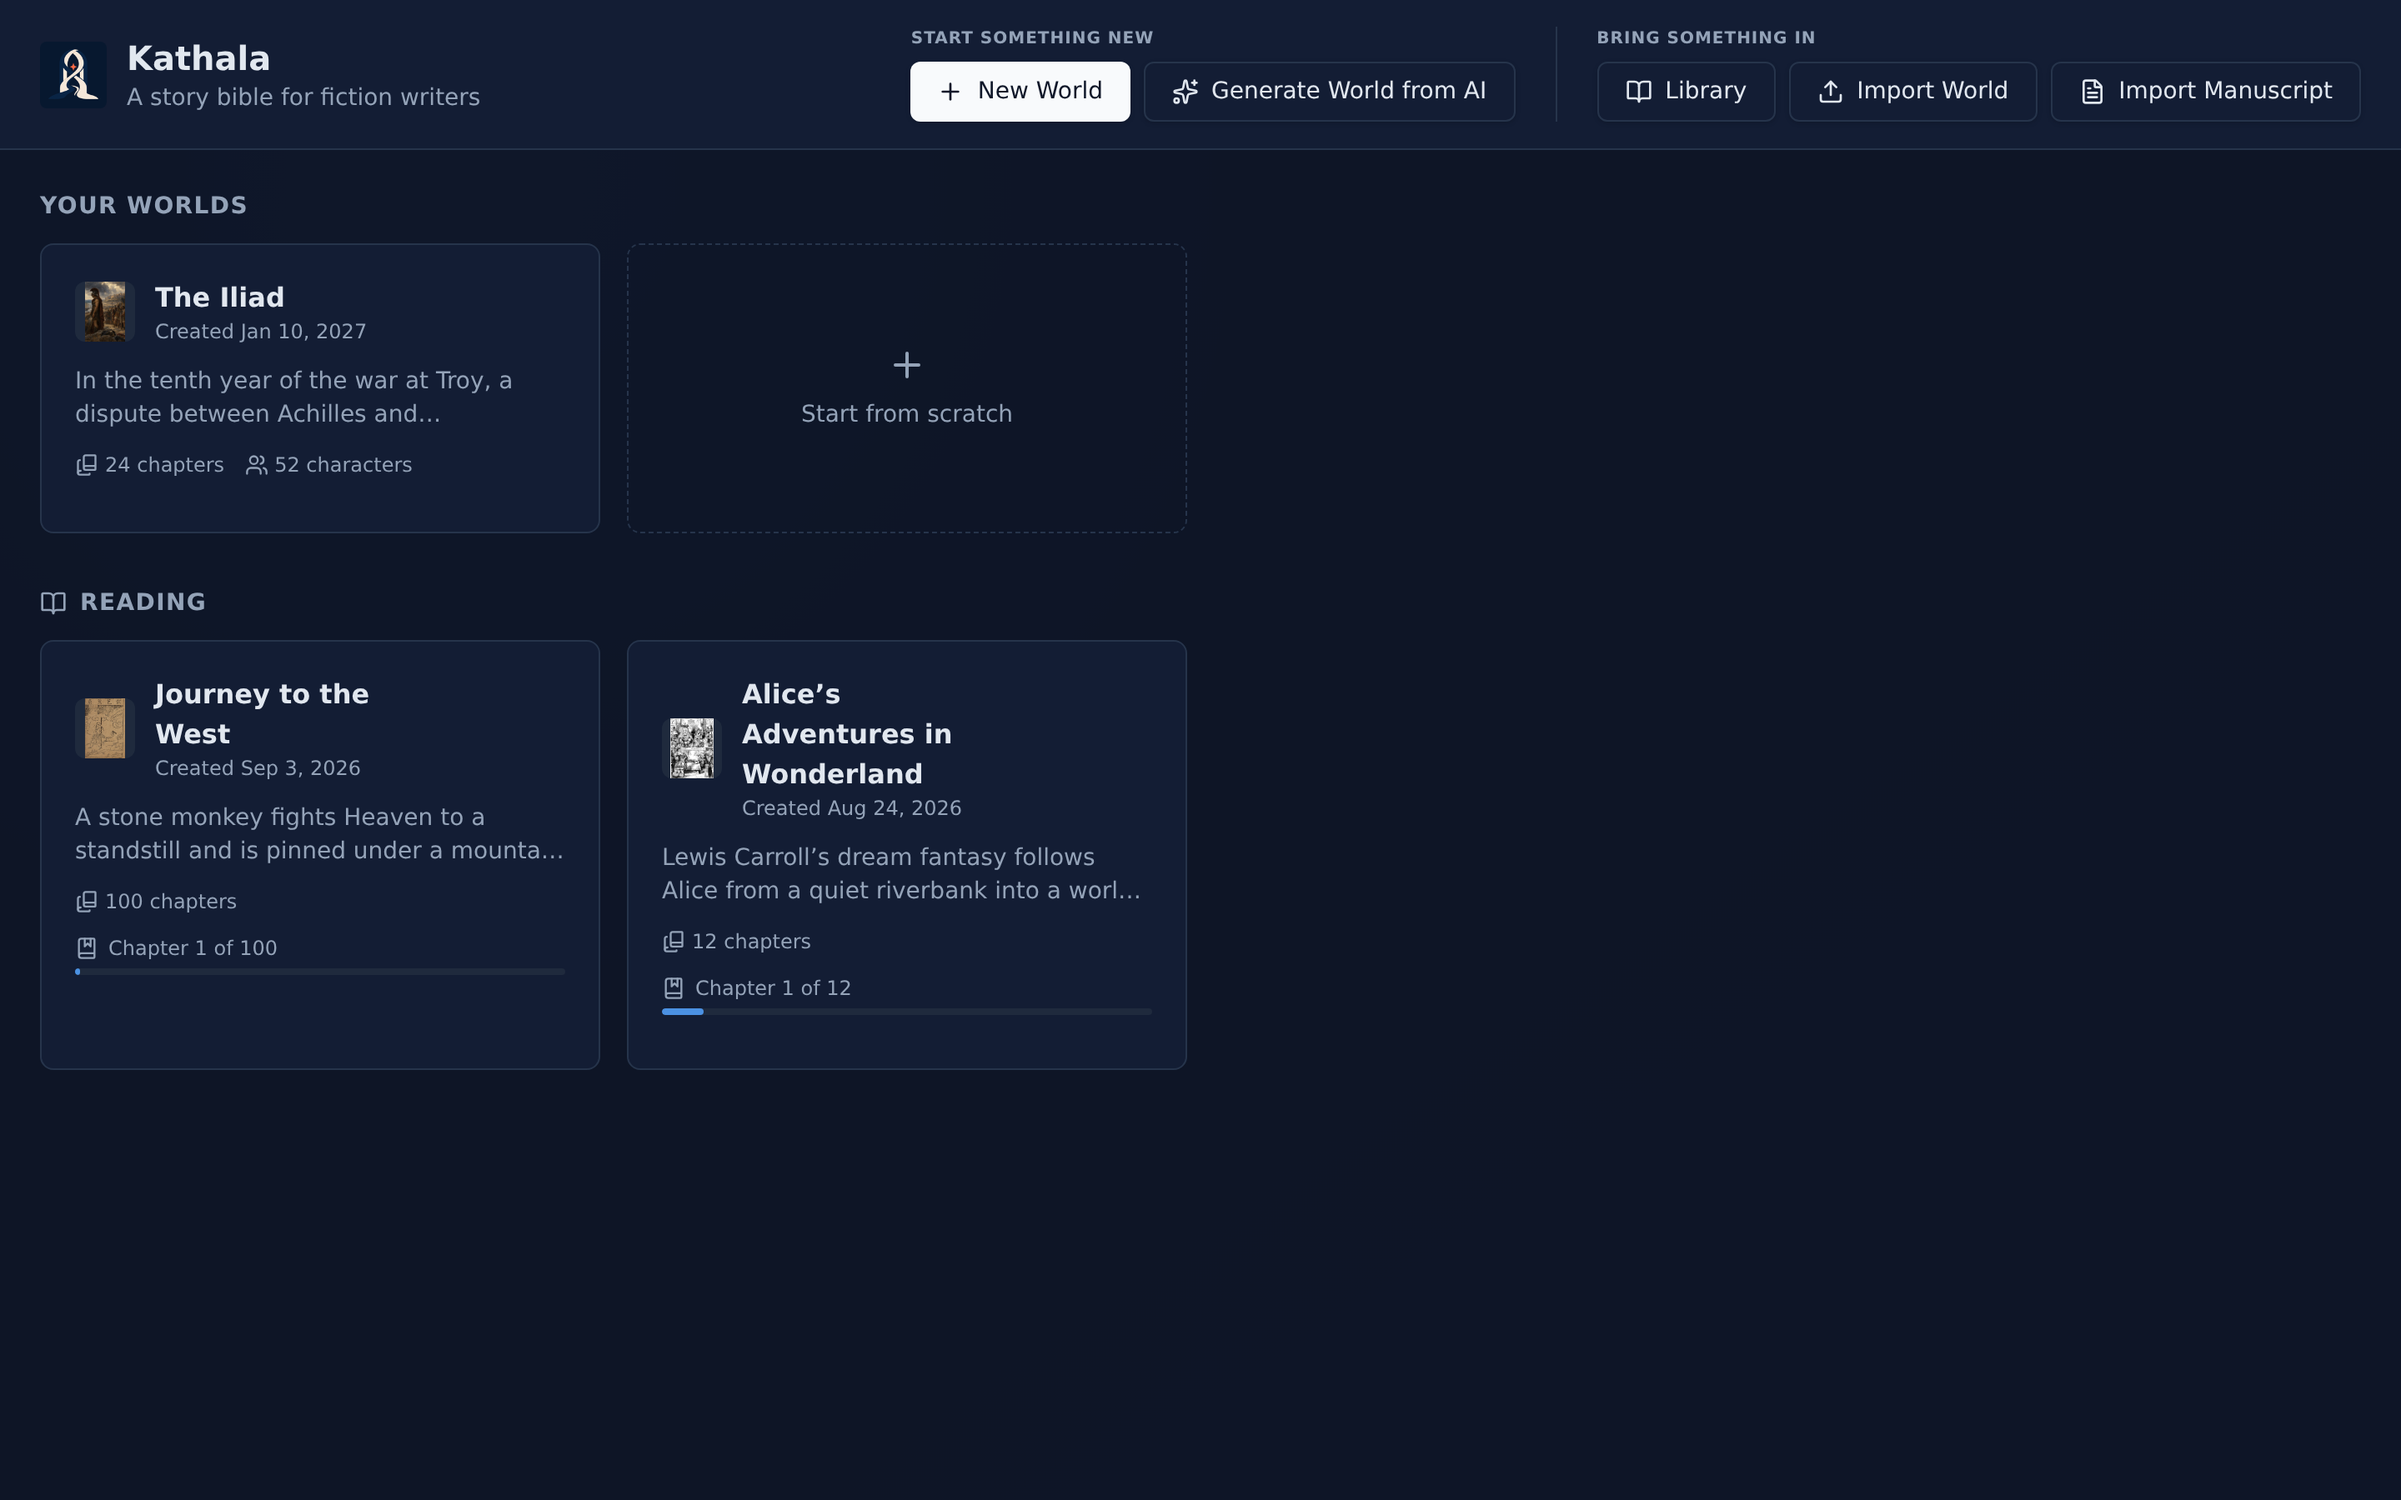
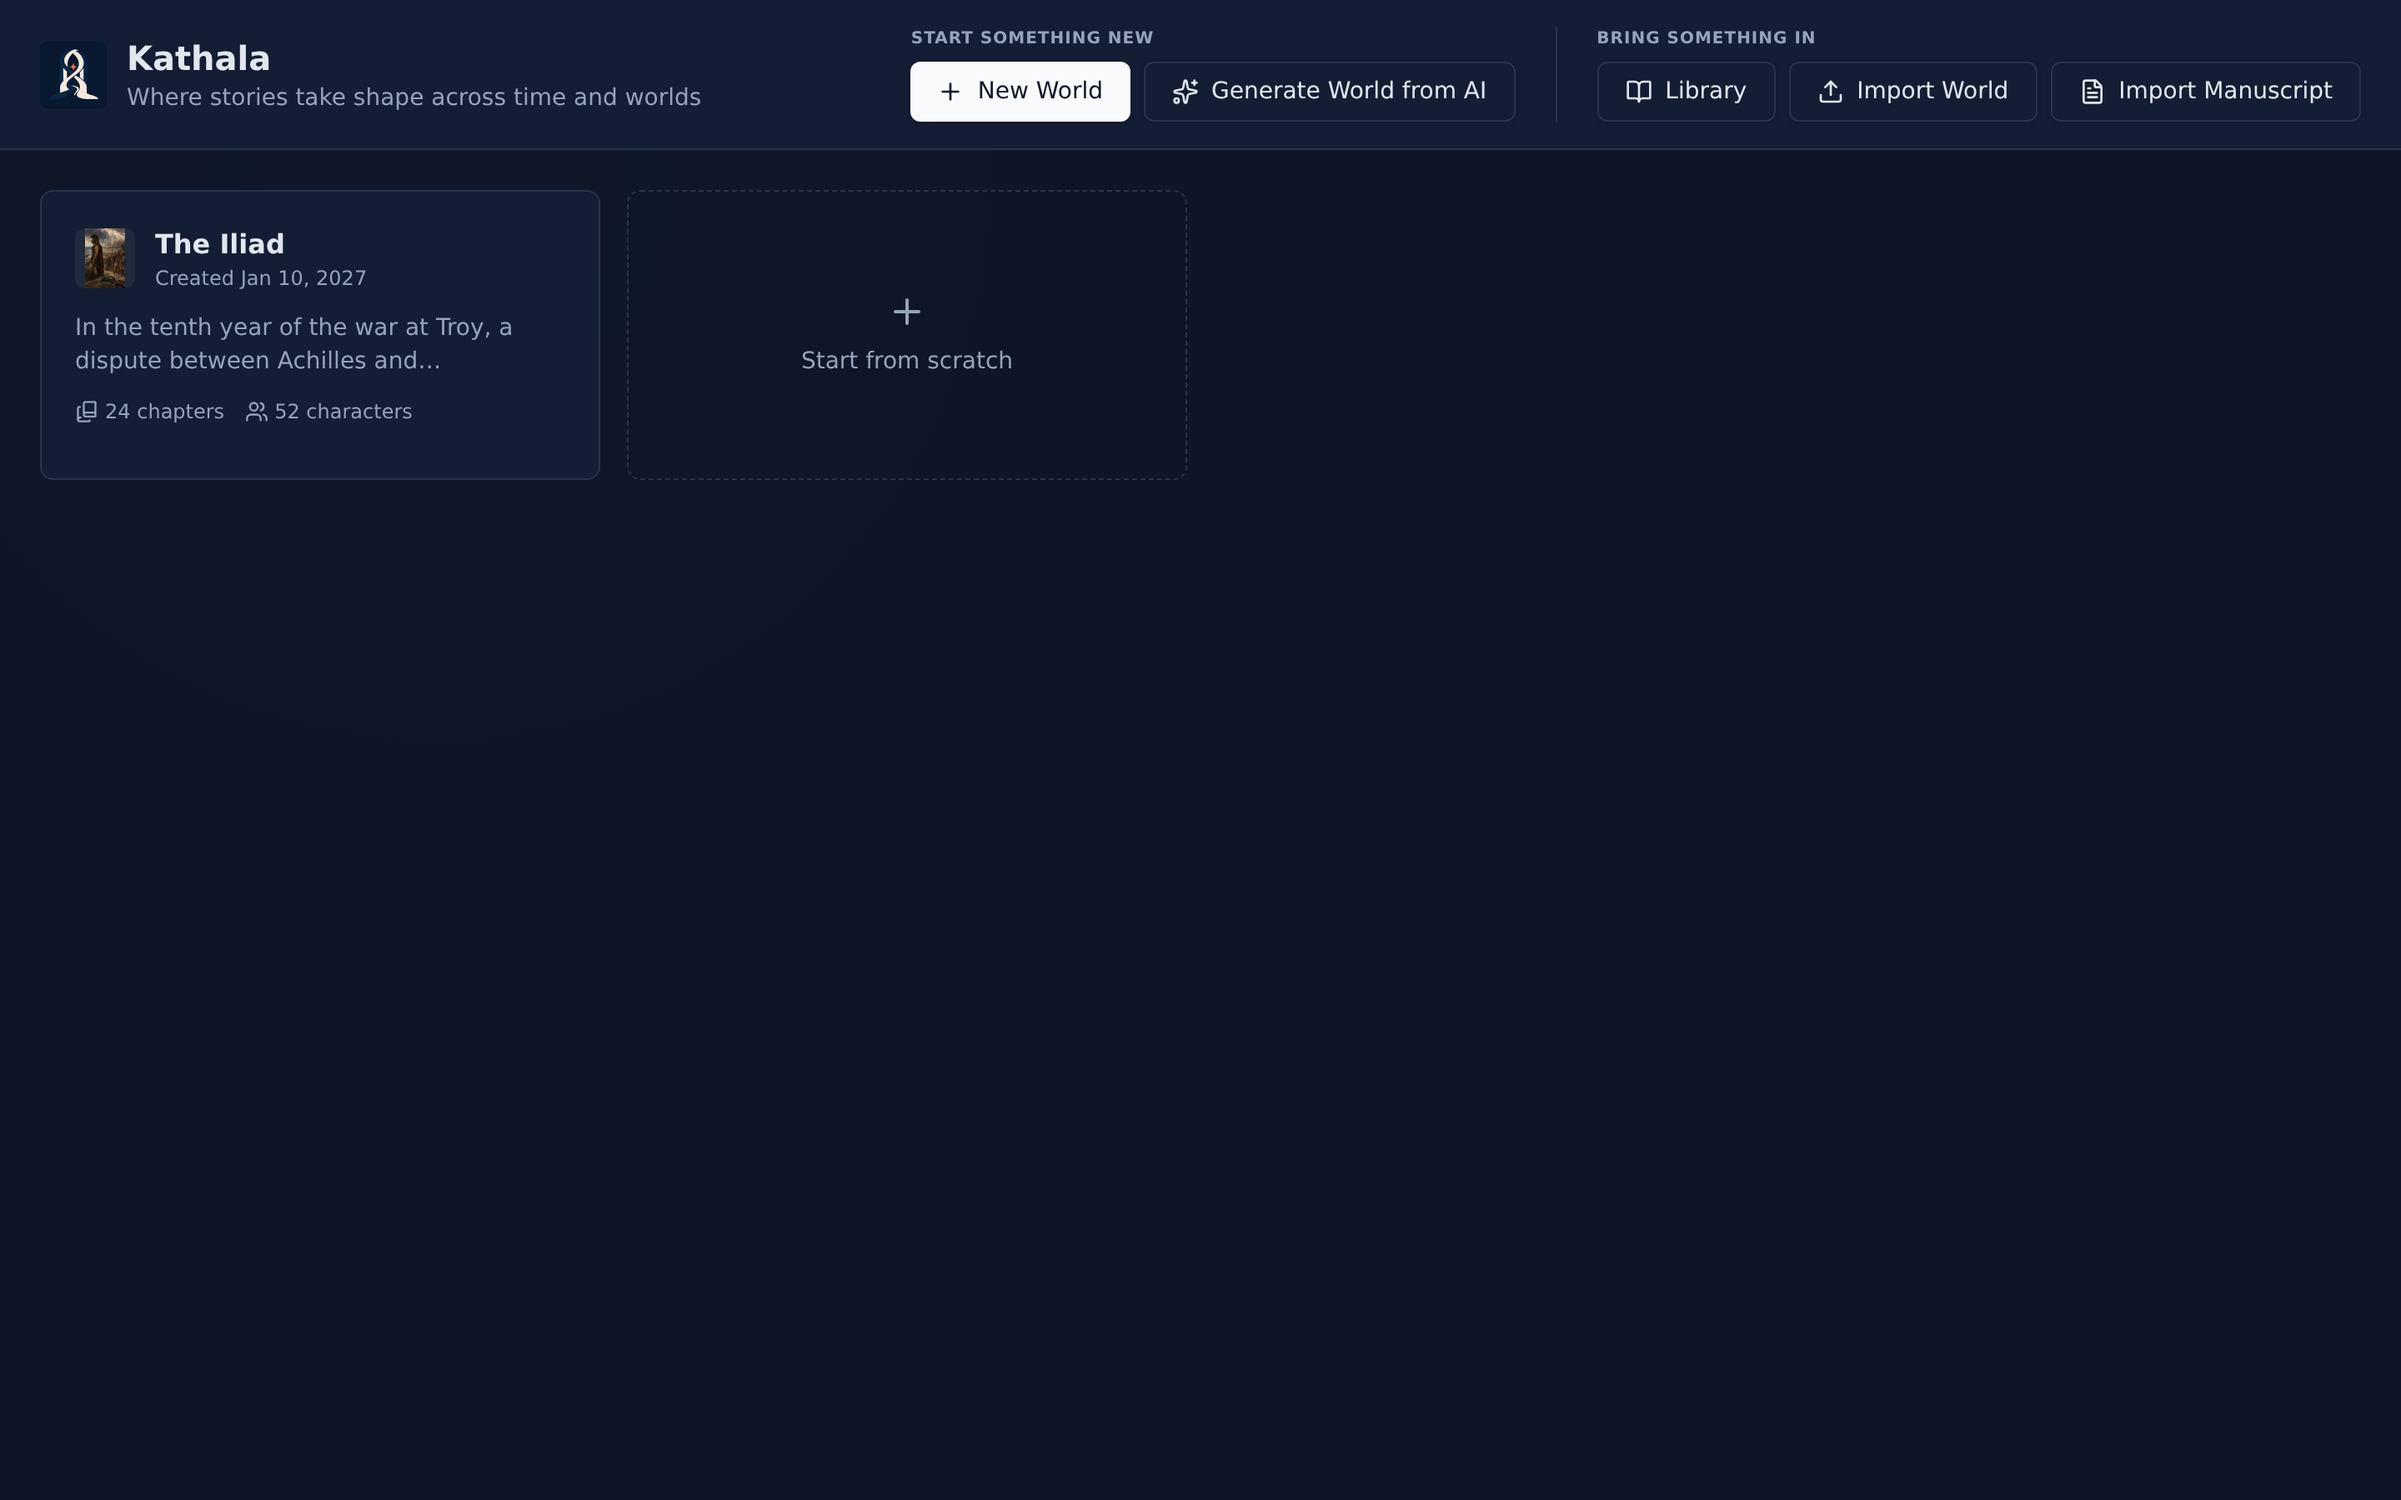
Make the tagline the line the app says about itself
The world selector still read *A story bible for fiction writers* — the
positioning the rename was supposed to replace, and the one line the app uses
to say what it is. It is now *Where stories take shape across time and worlds*.

The old line was not merely stale, it was wrong in a way that mattered: reading
mode gave the app a second audience, and "for fiction writers" tells a reader
this is not for them on the first screen they see. That is why this wording was
chosen over the alternatives.

One tagline, not two. The page title, `og:title` and the README carried *a
story bible that knows what time it is* while the app itself carried something
else; all three now carry the tagline. The category words stay where they earn
their keep — the meta description and the guide still say "local-first story
bible", which is what someone searches for.

Also updated: the guide and wiki openings (both said "for fiction writers"),
the package description, the Electron comment that quotes the title it pins,
and the two world-selector screenshots.

`e2e/worldCard.spec.ts` asserts the new line and both absences. Mutation-tested:
restoring the old string turns SEL-4 red.

Claude-Session: https://claude.ai/code/session_012HJuZ3q12imk2q9iq8d945

diff --git a/index.html b/index.html
@@ -9,7 +9,7 @@
     -->
     <link rel="icon" type="image/png" href="/favicon-32.png" />
     <meta name="viewport" content="width=device-width, initial-scale=1.0" />
-    <title>Kathala — a story bible that knows what time it is</title>
+    <title>Kathala — where stories take shape across time and worlds</title>
 
     <!--
       What a search result and a shared link look like.
@@ -24,11 +24,11 @@
     -->
     <meta
       name="description"
-      content="A local-first story bible for fiction writers. Track where every character is, what they carry and who they know, at any scene in your story. No account, no backend — your work stays on your device."
+      content="A local-first story bible for writers, and a spoiler-safe companion for readers. Track where every character is, what they carry and who they know, at any scene in your story. No account, no backend — your work stays on your device."
     />
     <meta property="og:type" content="website" />
     <meta property="og:site_name" content="Kathala" />
-    <meta property="og:title" content="Kathala — a story bible that knows what time it is" />
+    <meta property="og:title" content="Kathala — where stories take shape across time and worlds" />
     <meta
       property="og:description"
       content="Track where every character is, what they carry and who they know, at any scene in your story. Open one of thirty worlds built from published books and scrub through it — no account, nothing to install."

diff --git a/e2e/worldCard.spec.ts b/e2e/worldCard.spec.ts
@@ -96,9 +96,18 @@ test.describe('The world list', () => {
     await expect(same.getByText(/^Created /)).toHaveCount(0)
   })
 
+  /*
+    The line under the app's name is the only place it says what it is, so it
+    is asserted as text rather than left to a screenshot. Both absences are
+    live: "Story Tracker" was the original filing (SEL-4), and "fiction
+    writers" was the fix for it — accurate until reading mode gave the app a
+    second audience, which is the whole reason the tagline replaced it.
+  */
   test('SEL-4: the product describes itself', async ({ page }) => {
     await resetDB(page)
-    await expect(page.getByText('A story bible for fiction writers')).toBeVisible({ timeout: 30_000 })
+    await expect(page.getByText('Where stories take shape across time and worlds'))
+      .toBeVisible({ timeout: 30_000 })
     await expect(page.getByText('Story Tracker')).toHaveCount(0)
+    await expect(page.getByText(/fiction writers/)).toHaveCount(0)
   })
 })

diff --git a/src/features/worlds/WorldSelectorView.tsx b/src/features/worlds/WorldSelectorView.tsx
@@ -184,7 +184,7 @@ export default function WorldSelectorView() {
             <img src={faviconUrl} alt="Kathala" className="h-10 w-10 rounded object-cover" />
             <div>
               <h1 className="text-xl font-bold text-[hsl(var(--foreground))]">Kathala</h1>
-              <p className="text-sm text-[hsl(var(--muted-foreground))]">A story bible for fiction writers</p>
+              <p className="text-sm text-[hsl(var(--muted-foreground))]">Where stories take shape across time and worlds</p>
             </div>
           </div>
           {/*

diff --git a/docs/GUIDE.md b/docs/GUIDE.md
@@ -1,11 +1,14 @@
 # Kathala — User Guide
 
-**Kathala** is a local-first story bible for fiction writers. It tracks your
-characters, timeline, maps, items, relationships, lore, and continuity as your
-story evolves, stitches your scene prose into a manuscript, can build a whole
-world from a draft or an AI assistant, and can carry a series forward into a
-sequel — all stored privately in your browser (IndexedDB), with no account and
-no backend. You can run it in the browser or as a desktop app.
+**Kathala** is a local-first story bible — *where stories take shape across
+time and worlds*. It tracks your characters, timeline, maps, items,
+relationships, lore, and continuity as your story evolves, stitches your scene
+prose into a manuscript, can build a whole world from a draft or an AI
+assistant, and can carry a series forward into a sequel. It also reads: open a
+book from the Library and the bible unlocks a chapter at a time, so nothing on
+screen is ahead of where you are. All of it is stored privately in your browser
+(IndexedDB), with no account and no backend. You can run it in the browser or
+as a desktop app.
 
 This guide walks through every part of the app. The screenshots are taken from
 books in the **Library** — the shelf of worlds built from published novels,

diff --git a/docs/rename-plan.md b/docs/rename-plan.md
@@ -1,7 +1,13 @@
 # Renaming PlotWeave to Kathala — a working plan
 
-**Status:** proposed, nothing executed.
-**Tagline under consideration:** *Kathala — where stories take shape across time and worlds.*
+**Status:** executed and merged, except the four items a person owns —
+trademark clearance, the two repository renames, the two host moves, and the
+wiki publish.
+**Tagline:** *Kathala — where stories take shape across time and worlds.*
+Adopted, and now the single line the product uses to describe itself: the world
+selector, the page and `og:title`, and the README all carry it. It replaced *a
+story bible for fiction writers*, which was accurate until reading mode gave
+the app a second audience — the reason this wording was chosen over the others.
 
 This is a plan to argue with, not a script to run. Every number in it was
 measured on 2026-09-21 against `development`; none is an estimate.

diff --git a/docs/wiki/Home.md b/docs/wiki/Home.md
@@ -1,6 +1,6 @@
 # Kathala Wiki
 
-Kathala is a **local-first story bible for fiction writers**. It tracks your characters, timeline, maps, items, relationships, lore, and continuity as your story evolves, stitches your scene prose into a manuscript, can build a whole world from a draft or an AI assistant, and can carry a series forward into a sequel.
+Kathala is a **local-first story bible** — *where stories take shape across time and worlds*. It tracks your characters, timeline, maps, items, relationships, lore, and continuity as your story evolves, stitches your scene prose into a manuscript, can build a whole world from a draft or an AI assistant, and can carry a series forward into a sequel.
 
 Everything is stored privately in your browser (IndexedDB). No account, no backend, no internet connection required. Run it in a browser or as a desktop app.
 

diff --git a/README.md b/README.md
@@ -5,7 +5,7 @@
 </p>
 
 <p align="center">
-  <strong>A story bible that knows what time it is.</strong>
+  <strong>Where stories take shape across time and worlds.</strong>
 </p>
 
 <p align="center">
